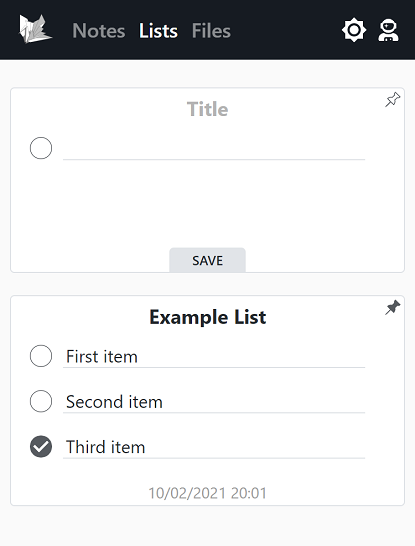
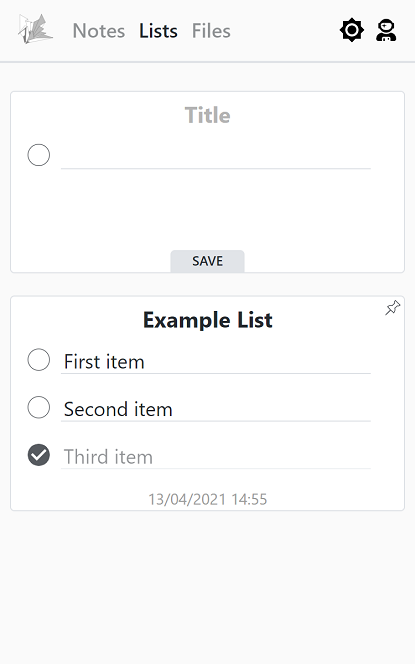
Enlarge font sizes and edit README file

diff --git a/src/components/Note/style.js b/src/components/Note/style.js
@@ -62,7 +62,7 @@ export const Category = styled(Input)`
   border-bottom: 1px solid var(--secondary-color);
   border-radius: 4px 4px 0 0;
   background-color: var(--secondary-color);
-  font-size: 10px;
+  font-size: 12px;
   font-weight: 500;
   letter-spacing: 3px;
   text-transform: uppercase;
@@ -70,7 +70,7 @@ export const Category = styled(Input)`
 export const Title = styled(Input)`
   margin: 8px 24px 0;
   padding: 0;
-  font-size: 18px;
+  font-size: 20px;
   font-weight: bold;
 `
 export const Content = styled.textarea`
@@ -81,7 +81,7 @@ export const Content = styled.textarea`
   resize: none;
   white-space: pre-line;
   font-family: inherit;
-  font-size: 16px;
+  font-size: 18px;
   color: inherit;
   background-color: inherit;
   cursor: auto;

diff --git a/src/components/App/App.jsx b/src/components/App/App.jsx
@@ -73,10 +73,6 @@ const App = () => {
           <Files />
         </Route>
 
-        <Route path="/storybook">
-          <Redirect to="/storybook/index.html" />
-        </Route>
-
         <Redirect to="/" />
       </Switch>
     </>

diff --git a/src/components/File/style.js b/src/components/File/style.js
@@ -35,7 +35,7 @@ export const Name = styled.input`
   font-family: inherit;
   background-color: inherit;
   color: inherit;
-  font-size: 16px;
+  font-size: 18px;
 
   &::placeholder {
     color: var(--placeholder-color);

diff --git a/README.md b/README.md
@@ -2,13 +2,20 @@
 
 ![Notes](src/images/notes-screenshot.png) ![Lists](src/images/lists-screenshot.png)
 
-The app is deployed here: https://flyingnotes.netlify.app
+<strong>App</strong>: https://flyingnotes.netlify.app
+
+<strong>Storybook</strong>: https://flyingnotes.netlify.app/storybook/index.html
+
+<br/>
 
 ## Environment Variables
 
 `REACT_APP_SERVER_URL` (default: http://localhost:5000)
 
 `REACT_APP_WS_SERVER_URL` (default: ws://localhost:5000)
+
+<br/>
+<br/>
 
 This project was bootstrapped with [Create React App](https://github.com/facebook/create-react-app).
 
